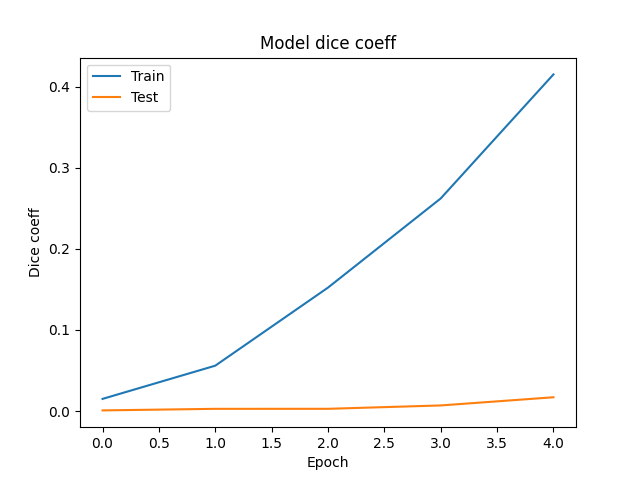
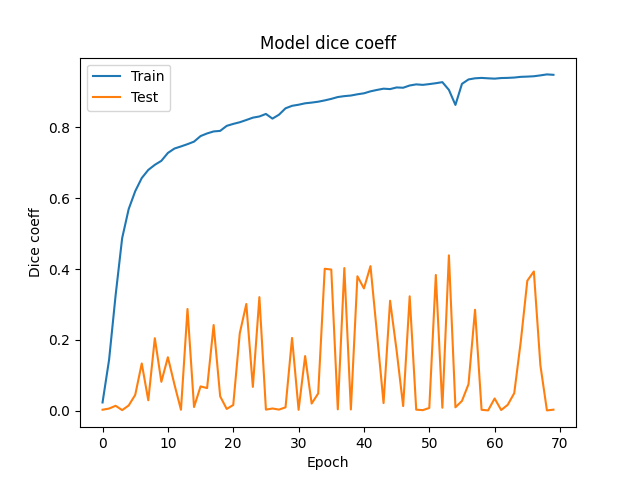
Training on 70 epochs

diff --git a/server_code_model_mar.py b/server_code_model_mar.py
@@ -101,7 +101,7 @@ history = model.fit(
     x=imgs_train,
     y=imgs_mask_train,
     batch_size=32,
-    epochs=5,
+    epochs=70,
     verbose=1,
     validation_split=0.2,
     callbacks=[my_callbacks]
